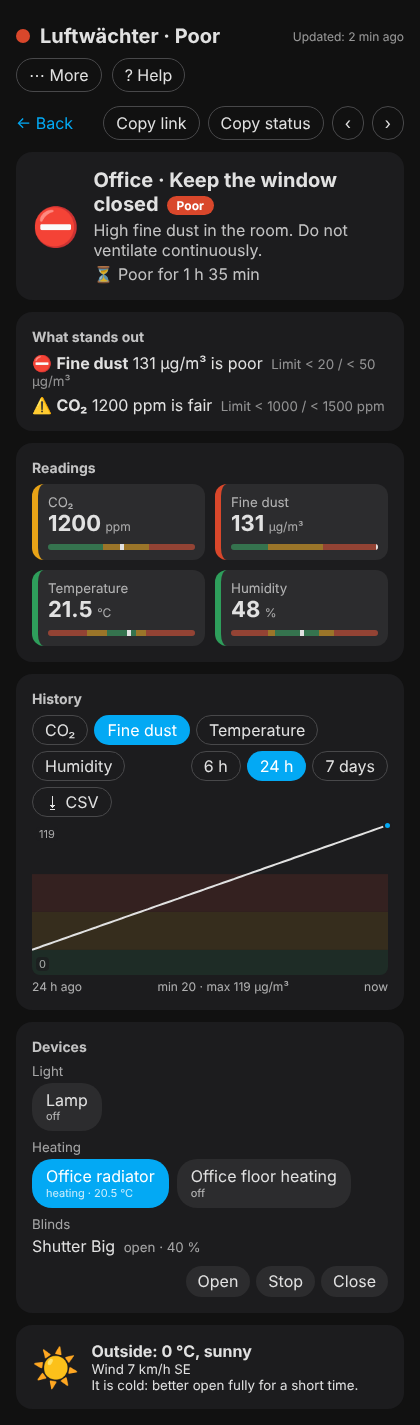
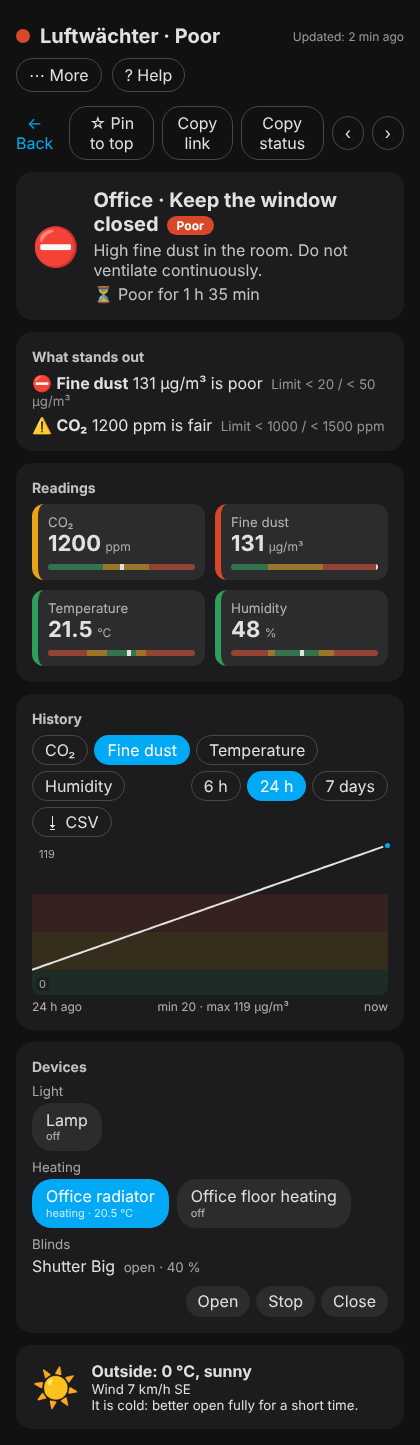
0.9.0: pin rooms, sort by CO2, repairs hint, German README, widget section
Claude-Session: https://claude.ai/code/session_01W38UNCWRvMYfcRr6jVyi8m

diff --git a/custom_components/luftwaechter/frontend/luftwaechter-panel.js b/custom_components/luftwaechter/frontend/luftwaechter-panel.js
@@ -11,7 +11,7 @@ const UI = {
     cover_open: "Auf", cover_stop: "Stopp", cover_close: "Zu", allgood: "Alle Werte im grünen Bereich.",
     isPoor: "ist schlecht", isFair: "ist mittel", tooHigh: "zu hoch", tooLow: "zu niedrig", limit: "Grenze",
     attention: "Jetzt tun", nothing: "Nichts zu tun, alles in Ordnung.", rooms_n: "{a} von {n} Räumen brauchen Aufmerksamkeit", stale: "Die Daten sind möglicherweise veraltet (letztes Update vor {n} min).",
-    size: "Textgröße", onbTitle: "So kommen Räume ins Panel", onb1: "Weise CO₂-, Feinstaub-, Temperatur- oder Luftfeuchte-Sensoren einem Bereich zu (Einstellungen → Bereiche).", onb2: "Der Raum erscheint automatisch, sobald ein Sensor Werte liefert.", onb3: "Optional: Gib einem Fenstersensor die Geräteklasse „Fenster“, dann bekommst du Lüftungsempfehlungen.", noHouse: "Die Integration Luftwächter wurde nicht gefunden. Einstellungen → Geräte & Dienste → Integration hinzufügen → Luftwächter.", legend: "Punkte: CO₂ · Feinstaub · Temperatur · Luftfeuchte", avgT: "Ø im Haus", ventStart: "Lüftungs-Timer starten ({n} min)", ventRun: "Lüften läuft", ventDone: "Zeit ist um: Fenster jetzt schließen", ventStop: "Abbrechen", fs: "Vollbild", fsExit: "Vollbild beenden", copyAll: "Hausstatus kopieren", trendUp: "Steigend", trendDown: "Fallend", onlyProblems: "Nur Probleme", rank: "CO₂ im Vergleich", rotate: "Räume automatisch durchschalten", csv: "CSV", shortcuts: "Tastatur: ← → Raum wechseln · Esc zurück · / suchen · S sortieren · O nur Probleme · V Listenansicht · M Menü · R durchschalten · F Vollbild · H Hilfe", search: "Raum suchen…", noMatch: "Kein Raum gefunden.", listView: "Listenansicht", tileView: "Kachelansicht", soundOn: "Signalton bei Ablauf: an", soundOff: "Signalton bei Ablauf: aus", copyLink: "Link kopieren", mold: "Schimmelgefahr", dew: "Taupunkt", more: "Mehr", refreshNow: "Jetzt aktualisieren", cbMode: "Farbenblind-Modus (Symbole)", sinceFor: "{l} seit {t}", copy: "Status kopieren", copied: "Kopiert", r6h: "6 h", r24h: "24 h", r7d: "7 Tage", a6h: "vor 6 h", a24h: "vor 24 h", a7d: "vor 7 Tagen", dayU: "Tg", hourU: "h",
+    size: "Textgröße", onbTitle: "So kommen Räume ins Panel", onb1: "Weise CO₂-, Feinstaub-, Temperatur- oder Luftfeuchte-Sensoren einem Bereich zu (Einstellungen → Bereiche).", onb2: "Der Raum erscheint automatisch, sobald ein Sensor Werte liefert.", onb3: "Optional: Gib einem Fenstersensor die Geräteklasse „Fenster“, dann bekommst du Lüftungsempfehlungen.", noHouse: "Die Integration Luftwächter wurde nicht gefunden. Einstellungen → Geräte & Dienste → Integration hinzufügen → Luftwächter.", legend: "Punkte: CO₂ · Feinstaub · Temperatur · Luftfeuchte", avgT: "Ø im Haus", ventStart: "Lüftungs-Timer starten ({n} min)", ventRun: "Lüften läuft", ventDone: "Zeit ist um: Fenster jetzt schließen", ventStop: "Abbrechen", fs: "Vollbild", fsExit: "Vollbild beenden", copyAll: "Hausstatus kopieren", trendUp: "Steigend", trendDown: "Fallend", onlyProblems: "Nur Probleme", rank: "CO₂ im Vergleich", rotate: "Räume automatisch durchschalten", csv: "CSV", shortcuts: "Tastatur: ← → Raum wechseln · Esc zurück · / suchen · S sortieren · P anheften · O nur Probleme · V Listenansicht · M Menü · R durchschalten · F Vollbild · H Hilfe", search: "Raum suchen…", noMatch: "Kein Raum gefunden.", listView: "Listenansicht", tileView: "Kachelansicht", soundOn: "Signalton bei Ablauf: an", soundOff: "Signalton bei Ablauf: aus", copyLink: "Link kopieren", mold: "Schimmelgefahr", dew: "Taupunkt", more: "Mehr", refreshNow: "Jetzt aktualisieren", cbMode: "Farbenblind-Modus (Symbole)", sinceFor: "{l} seit {t}", sortCo2: "Höchstes CO₂ zuerst", pin: "Oben anheften", unpin: "Nicht mehr anheften", pinned: "Angeheftet", copy: "Status kopieren", copied: "Kopiert", r6h: "6 h", r24h: "24 h", r7d: "7 Tage", a6h: "vor 6 h", a24h: "vor 24 h", a7d: "vor 7 Tagen", dayU: "Tg", hourU: "h",
     helpTitle: "Was bedeuten die Messwerte?", causes: "Mögliche Ursachen", todo: "Was hilft",
     hCo2: "CO₂ (Kohlendioxid) zeigt, wie verbraucht die Raumluft ist. Wir atmen es aus.",
     cCo2: "Viele Personen im Raum, Schlafen bei geschlossenem Fenster, kleine Räume, geschlossene Türen, Kerzen oder Gasflammen.",
@@ -36,7 +36,7 @@ const UI = {
     cover_open: "Open", cover_stop: "Stop", cover_close: "Close", allgood: "All readings are in the green.",
     isPoor: "is poor", isFair: "is fair", tooHigh: "too high", tooLow: "too low", limit: "Limit",
     attention: "Do now", nothing: "Nothing to do, all good.", rooms_n: "{a} of {n} rooms need attention", stale: "Data may be outdated (last update {n} min ago).",
-    size: "Text size", onbTitle: "How rooms get into the panel", onb1: "Assign CO₂, fine dust, temperature or humidity sensors to an area (Settings → Areas).", onb2: "The room appears automatically as soon as a sensor reports values.", onb3: "Optional: give a window sensor the device class \"window\" to get ventilation advice.", noHouse: "The Luftwächter integration was not found. Settings → Devices & services → Add integration → Luftwächter.", legend: "Dots: CO₂ · fine dust · temperature · humidity", avgT: "House average", ventStart: "Start ventilation timer ({n} min)", ventRun: "Ventilating", ventDone: "Time is up: close the window now", ventStop: "Cancel", fs: "Full screen", fsExit: "Exit full screen", copyAll: "Copy house status", trendUp: "Rising", trendDown: "Falling", onlyProblems: "Only problems", rank: "CO₂ compared", rotate: "Rotate through rooms automatically", csv: "CSV", shortcuts: "Keyboard: ← → switch room · Esc back · / search · S sort · O only problems · V list view · M menu · R rotate · F full screen · H help", search: "Find a room…", noMatch: "No room found.", listView: "List view", tileView: "Tile view", soundOn: "Sound when time is up: on", soundOff: "Sound when time is up: off", copyLink: "Copy link", mold: "Mold risk", dew: "Dew point", more: "More", refreshNow: "Refresh now", cbMode: "Color-blind mode (symbols)", sinceFor: "{l} for {t}", copy: "Copy status", copied: "Copied", r6h: "6 h", r24h: "24 h", r7d: "7 days", a6h: "6 h ago", a24h: "24 h ago", a7d: "7 days ago", dayU: "d", hourU: "h",
+    size: "Text size", onbTitle: "How rooms get into the panel", onb1: "Assign CO₂, fine dust, temperature or humidity sensors to an area (Settings → Areas).", onb2: "The room appears automatically as soon as a sensor reports values.", onb3: "Optional: give a window sensor the device class \"window\" to get ventilation advice.", noHouse: "The Luftwächter integration was not found. Settings → Devices & services → Add integration → Luftwächter.", legend: "Dots: CO₂ · fine dust · temperature · humidity", avgT: "House average", ventStart: "Start ventilation timer ({n} min)", ventRun: "Ventilating", ventDone: "Time is up: close the window now", ventStop: "Cancel", fs: "Full screen", fsExit: "Exit full screen", copyAll: "Copy house status", trendUp: "Rising", trendDown: "Falling", onlyProblems: "Only problems", rank: "CO₂ compared", rotate: "Rotate through rooms automatically", csv: "CSV", shortcuts: "Keyboard: ← → switch room · Esc back · / search · S sort · P pin · O only problems · V list view · M menu · R rotate · F full screen · H help", search: "Find a room…", noMatch: "No room found.", listView: "List view", tileView: "Tile view", soundOn: "Sound when time is up: on", soundOff: "Sound when time is up: off", copyLink: "Copy link", mold: "Mold risk", dew: "Dew point", more: "More", refreshNow: "Refresh now", cbMode: "Color-blind mode (symbols)", sinceFor: "{l} for {t}", sortCo2: "Highest CO₂ first", pin: "Pin to top", unpin: "Unpin", pinned: "Pinned", copy: "Copy status", copied: "Copied", r6h: "6 h", r24h: "24 h", r7d: "7 days", a6h: "6 h ago", a24h: "24 h ago", a7d: "7 days ago", dayU: "d", hourU: "h",
     helpTitle: "What do the readings mean?", causes: "Possible causes", todo: "What helps",
     hCo2: "CO₂ (carbon dioxide) shows how stale the room air is. We breathe it out.",
     cCo2: "Many people in the room, sleeping with the window closed, small rooms, closed doors, candles or gas flames.",
@@ -83,7 +83,7 @@ class LuftwaechterPanel extends HTMLElement {
     this._range = store.get("lw_range") || "24h";
     this._size = parseInt(store.get("lw_size") || "1", 10);
     this._only = store.get("lw_only") === "1";
-    this._list = store.get("lw_list") === "1"; this._snd = store.get("lw_snd") === "1"; this._q = ""; this._cb = store.get("lw_cb") === "1"; this._menu = false;
+    this._list = store.get("lw_list") === "1"; this._snd = store.get("lw_snd") === "1"; this._q = ""; this._cb = store.get("lw_cb") === "1"; try { this._pins = JSON.parse(store.get("lw_pins") || "[]"); } catch (e) { this._pins = []; } if (!Array.isArray(this._pins)) this._pins = []; this._menu = false;
     this._help = false;
     this._hist = {};
     try { const m = /[#&]room=([^&]+)/.exec(location.hash); if (m) this._sel = decodeURIComponent(m[1]); } catch (e) { /* ignore */ }
@@ -122,11 +122,14 @@ class LuftwaechterPanel extends HTMLElement {
   _menuItems(rooms, sel, t) {
     const b = (id, icon, label, pressed) => `<button class="mi" id="${id}"${pressed === undefined ? "" : ` aria-pressed="${pressed}"`}><span aria-hidden="true">${icon}</span> ${esc(label)}</button>`;
     const many = rooms.length > 1, ov = !sel, fs = document.fullscreenElement;
-    return [ov && many ? b("only", "⚠", t.onlyProblems, this._only) : "", ov && many ? b("sort", "↕", this._sort === "worst" ? t.sortWorst : t.sortName) : "",
+    return [ov && many ? b("only", "⚠", t.onlyProblems, this._only) : "", ov && many ? b("sort", "↕", this._sortLabel(t)) : "",
       ov && many ? b("dens", this._list ? "▦" : "☰", this._list ? t.tileView : t.listView) : "", many ? b("rot", "⟳", t.rotate, this._rot) : "",
       ov && rooms.length ? b("copyall", "⧉", t.copyAll) : "", document.fullscreenEnabled ? b("fs", fs ? "🗗" : "⛶", fs ? t.fsExit : t.fs) : "",
       b("size", "Aa", t.size), b("cb", "◐", t.cbMode, this._cb), b("refresh", "↻", t.refreshNow)].join("");
   }
+  _nextSort() { this._sort = { worst: "name", name: "co2" }[this._sort] || "worst"; store.set("lw_sort", this._sort); this._render(); }
+  _pin(key) { const i = this._pins.indexOf(key); if (i < 0) this._pins.push(key); else this._pins.splice(i, 1); store.set("lw_pins", JSON.stringify(this._pins)); this._render(); }
+  _sortLabel(t) { return this._sort === "worst" ? t.sortWorst : this._sort === "co2" ? t.sortCo2 : t.sortName; }
   _sym(i) { return ["✓", "!", "✕"][i] || "–"; }
   _dur(min) { return min < 60 ? `${min} min` : `${Math.floor(min / 60)} h ${min % 60} min`; }
   _spark(r) {
@@ -190,7 +193,12 @@ class LuftwaechterPanel extends HTMLElement {
     if (this._sort === "worst") {
       const rank = (r) => ({ poor: 0, fair: 1, good: 2 }[r.level] ?? 3);
       rooms.sort((a, b) => rank(a) - rank(b) || a.name.localeCompare(b.name));
+    } else if (this._sort === "co2") {
+      const co2 = (r) => { const v = r.values.find((x) => x.key === "co2"); return v && v.raw != null ? v.raw : -1; };
+      rooms.sort((a, b) => co2(b) - co2(a) || a.name.localeCompare(b.name));
     } else rooms.sort((a, b) => a.name.localeCompare(b.name));
+    const pin = (r) => (this._pins.includes(r.key) ? 0 : 1);
+    rooms.sort((a, b) => pin(a) - pin(b));
     return rooms;
   }
   _select(key) { this._sel = key; store.set("lw_room", key || ""); try { history.replaceState(null, "", key ? "#room=" + encodeURIComponent(key) : location.pathname + location.search); } catch (e) { /* ignore */ } this._render(); }
@@ -205,7 +213,8 @@ class LuftwaechterPanel extends HTMLElement {
     if (k === "h") { if (this._help) this._closeHelp(); else { this._help = true; this._render(); this.shadowRoot.querySelector("#hclose")?.focus(); } return; }
     if (this._help && ev.key === "Tab") { ev.preventDefault(); this.shadowRoot.querySelector("#hclose")?.focus(); return; }
     if (!this._help) {
-      if (k === "s" && !this._sel) { this._sort = this._sort === "worst" ? "name" : "worst"; store.set("lw_sort", this._sort); this._render(); return; }
+      if (k === "s" && !this._sel) { this._nextSort(); return; }
+      if (k === "p" && this._sel) { this._pin(this._sel); return; }
       if (k === "o" && !this._sel) { this._only = !this._only; store.set("lw_only", this._only ? "1" : "0"); this._render(); return; }
       if (k === "/" && !this._sel) { const qi = this.shadowRoot.querySelector("#q"); if (qi) { ev.preventDefault(); qi.focus(); return; } }
       if (k === "m") { this._toggleMenu(); return; }
@@ -419,12 +428,12 @@ header{position:sticky;top:0;z-index:5;background:var(--primary-background-color
         const bad = r.values.filter((v) => v.level >= 1 && v.raw != null).sort((x, y) => y.level - x.level)[0];
         const co2 = r.values.find((v) => v.key === "co2");
         return `<button class="tile" data-name="${esc(r.name.toLowerCase())}" data-room="${esc(r.key)}" style="border-color:${this._col(r.level)}" aria-label="${esc(r.name)}: ${esc(t[r.level] || t.unknown)}">
-          <b>${esc(r.name)}</b><span class="pill" title="${r.since >= 2 ? esc(t.sinceFor.replace("{l}", t[r.level] || t.unknown).replace("{t}", this._dur(r.since))) : ""}" style="background:${this._col(r.level)}">${esc(t[r.level] || t.unknown)}</span><small>${LVLICON[["good", "fair", "poor"].indexOf(r.level)] || "❔"} ${esc(r.headline)}</small>
+          <b>${this._pins.includes(r.key) ? "★ " : ""}${esc(r.name)}</b><span class="pill" title="${r.since >= 2 ? esc(t.sinceFor.replace("{l}", t[r.level] || t.unknown).replace("{t}", this._dur(r.since))) : ""}" style="background:${this._col(r.level)}">${esc(t[r.level] || t.unknown)}</span><small>${LVLICON[["good", "fair", "poor"].indexOf(r.level)] || "❔"} ${esc(r.headline)}</small>
           ${bad ? `<small style="color:${COL[bad.level]}">${esc(t[bad.key])}: ${esc(bad.value)} ${esc(bad.unit)}</small>` : ""}<small class="mini">${r.values.filter((v) => v.raw != null).map((v) => esc(v.value) + "\u00a0" + esc(v.unit)).join(" · ")}</small>${r.trend === "up" || r.trend === "down" ? `<small>${r.trend === "up" ? "↗" : "↘"} ${esc(t[r.trend === "up" ? "trendUp" : "trendDown"])}</small>` : ""}${r.mold ? `<small class="mold">💧 ${esc(t.mold)}</small>` : ""}${this._spark(r)}<div class="dots${this._cb ? " cbd" : ""}" aria-hidden="true">${r.values.map((v) => `<i title="${esc(t[v.key])}: ${esc(v.value)} ${esc(v.unit)}" style="background:${this._lcol(v.level)}">${this._cb ? this._sym(v.level) : ""}</i>`).join("")}</div></button>`;
       }).join("")}</div><p class="muted legend">${esc(t.legend)}</p>${this._rank(rooms, t)}`;
     } else {
       const li = rooms.findIndex((r) => r.key === sel.key);
-      body = `<div class="nav"><button class="back" id="back">← ${esc(t.back)}</button><span class="sp"></span><button class="tool" id="link">${esc(t.copyLink)}</button><button class="tool" id="copy">${esc(t.copy)}</button><button class="tool" id="prev" aria-label="${esc(t.prev)}">‹</button><button class="tool" id="next" aria-label="${esc(t.next)}">›</button></div>
+      body = `<div class="nav"><button class="back" id="back">← ${esc(t.back)}</button><span class="sp"></span><button class="tool" id="pin" aria-pressed="${this._pins.includes(sel.key)}" title="${esc(this._pins.includes(sel.key) ? t.unpin : t.pin)}">${this._pins.includes(sel.key) ? "★ " + esc(t.pinned) : "☆ " + esc(t.pin)}</button><button class="tool" id="link">${esc(t.copyLink)}</button><button class="tool" id="copy">${esc(t.copy)}</button><button class="tool" id="prev" aria-label="${esc(t.prev)}">‹</button><button class="tool" id="next" aria-label="${esc(t.next)}">›</button></div>
       <div class="card"><div class="head"><span class="big">${["keep_closed", "unknown"].includes(sel.action) && LVLICON[["good", "fair", "poor"].indexOf(sel.level)] ? LVLICON[["good", "fair", "poor"].indexOf(sel.level)] : ICON[sel.action] || ""}</span><div><h2>${esc(sel.name)} · ${esc(sel.headline)}<span class="badge" style="background:${this._col(sel.level)}">${esc(t[sel.level] || t.unknown)}</span></h2><p>${esc(sel.detail)}</p>${sel.trend === "up" || sel.trend === "down" ? `<p class="muted">${sel.trend === "up" ? "↗" : "↘"} ${esc(t[sel.trend === "up" ? "trendUp" : "trendDown"])}</p>` : ""}${sel.since >= 2 ? `<p class="muted">⏳ ${esc(t.sinceFor.replace("{l}", t[sel.level] || t.unknown).replace("{t}", this._dur(sel.since)))}</p>` : ""}</div></div>${sel.warn ? `<div class="warn">${esc(sel.warn)}</div>` : ""}</div>${this._ventCard(sel, t)}
       <div class="cols"><div><div class="card"><h3>${esc(t.problems)}</h3>${this._problems(sel, t)}</div>
         <div class="card"><h3>${esc(t.values)}</h3><div class="vals">${sel.values.map((v) => `<div class="val" style="border-color:${this._lcol(v.level)}" title="${esc(t.limits)}: ${esc(this._lim(v.key))}"><small>${this._cb ? `<span class="sym">${this._sym(v.level)}</span>` : ""}${esc(t[v.key])}</small><b>${esc(v.value)}</b> <i>${esc(v.unit)}</i>${this._gauge(v)}</div>`).join("")}</div>${sel.dew ? `<p class="muted" style="margin-top:8px">${esc(t.dew)}: ${esc(sel.dew)} °C${sel.mold ? ` · <span class="mold">💧 ${esc(t.mold)}</span>` : ""}</p>` : ""}</div></div>
@@ -441,7 +450,8 @@ header{position:sticky;top:0;z-index:5;background:var(--primary-background-color
     q("#back")?.addEventListener("click", () => this._select(null));
     const step = (d) => { const rs = this._rooms(); const i = rs.findIndex((r) => r.key === this._sel); this._select(rs[(i + d + rs.length) % rs.length].key); };
     q("#prev")?.addEventListener("click", () => step(-1)); q("#next")?.addEventListener("click", () => step(1));
-    q("#sort")?.addEventListener("click", () => { this._sort = this._sort === "worst" ? "name" : "worst"; store.set("lw_sort", this._sort); this._render(); });
+    q("#sort")?.addEventListener("click", () => this._nextSort());
+    q("#pin")?.addEventListener("click", () => this._pin(sel.key));
     q("#only")?.addEventListener("click", () => { this._only = !this._only; store.set("lw_only", this._only ? "1" : "0"); this._render(); });
     q("#size")?.addEventListener("click", () => { this._size = (this._size + 1) % 3; store.set("lw_size", String(this._size)); this._render(); });
     q("#copy")?.addEventListener("click", async (ev) => { const r = sel; const txt = `${r.name}: ${r.headline}. ${r.detail}\n` + r.values.map((v) => `${t[v.key]} ${v.value} ${v.unit}`).join(", "); try { await navigator.clipboard.writeText(txt); ev.target.textContent = t.copied + " ✓"; } catch (e) { ev.target.textContent = "✗"; } });

diff --git a/tests/panel.spec.py b/tests/panel.spec.py
@@ -55,7 +55,8 @@ with sync_playwright() as p:
     assert "may be outdated" in pg.evaluate("el.shadowRoot.querySelector('#stale').textContent") and not pg.evaluate("el.shadowRoot.querySelector('#stale').hidden")
     pg.evaluate("el._hass.states['sensor.luftwaechter_house'].attributes.updated = Math.floor(Date.now()/1000) - 120; el._sig=''; el.hass = el._hass")
     clk("#sort"); assert pg.evaluate("[...el.shadowRoot.querySelectorAll('.tile b')].map(x=>x.textContent)") == ["Bedroom", "Office"]
-    clk("#sort"); clk(".tile")
+    clk("#sort"); assert pg.evaluate("el._sort") == "co2" and pg.evaluate("[...el.shadowRoot.querySelectorAll('.tile b')].map(x=>x.textContent)") == ["Office", "Bedroom"]
+    clk("#sort"); assert pg.evaluate("el._sort") == "worst"; clk(".tile")
     pg.wait_for_function("el.shadowRoot.querySelector('.chartwrap svg path') !== null")
     t = txt()
     assert "Office" in t and "poor" in t.lower() and "Fine dust 131 µg/m³ is poor" in t and "What stands out" in t
@@ -109,7 +110,7 @@ with sync_playwright() as p:
     pg.keyboard.press("o"); assert pg.evaluate("[...el.shadowRoot.querySelectorAll('.tile b')].map(x=>x.textContent)") == ["Office"]
     pg.keyboard.press("o"); assert pg.evaluate("el.shadowRoot.querySelectorAll('.tile').length") == 2
     pg.keyboard.press("h"); assert "Possible causes" in txt() and "Keyboard:" in txt() and "< 1500 / < 2000 ppm" in txt(); pg.keyboard.press("h"); assert "Possible causes" not in txt()
-    pg.keyboard.press("s"); assert pg.evaluate("el._sort") == "name"; pg.keyboard.press("s"); assert pg.evaluate("el._sort") == "worst"
+    pg.keyboard.press("s"); assert pg.evaluate("el._sort") == "name"; pg.keyboard.press("s"); pg.keyboard.press("s"); assert pg.evaluate("el._sort") == "worst"
     pg.evaluate("() => { const h = el._hass; const e = h.states['sensor.luftwaechter_house']; e.attributes = window.orig; e.last_updated = 't8'; el.hass = Object.assign({}, h); }")
     # 0.7.0: mold hint, search with many rooms, list view, copy link, sound toggle, configurable stale limit
     pg.evaluate("""() => { const h = el._hass, e = h.states['sensor.luftwaechter_house']; const a = JSON.parse(JSON.stringify(window.orig));
@@ -148,6 +149,11 @@ with sync_playwright() as p:
     clk("#cb"); assert pg.evaluate("el._cb") is False and pg.evaluate("!el.shadowRoot.querySelector('.dots.cbd')")
     pg.evaluate("el._select('o')"); assert "Poor for 1 h 35 min" in txt()
     pg.evaluate("el._select(null)")
+    # 0.9.0: pin favourite rooms (stay on top in every sort order), CO2 sort label
+    pg.evaluate("el._select('b')"); clk("#pin"); assert pg.evaluate("el._pins") == ["b"] and "Pinned" in txt()
+    pg.evaluate("el._select(null)"); assert pg.evaluate("[...el.shadowRoot.querySelectorAll('.tile b')].map(x=>x.textContent)") == ["★ Bedroom", "Office"]
+    pg.evaluate("el._select('b')"); pg.keyboard.press("p"); assert pg.evaluate("el._pins") == []
+    pg.evaluate("el._select(null)"); assert pg.evaluate("[...el.shadowRoot.querySelectorAll('.tile b')].map(x=>x.textContent)") == ["Office", "Bedroom"]
     # German UI screenshot for the README: server text in English, this viewer is German
     pg.evaluate("""() => { const h = el._hass, e = h.states['sensor.luftwaechter_house']; const a = JSON.parse(JSON.stringify(window.orig));
       const m = { 'Keep the window closed': 'Fenster zu lassen', 'All good': 'Alles in Ordnung', 'High fine dust in the room. Do not ventilate continuously.': 'Hoher Feinstaub im Raum. Nicht dauerhaft lüften.', 'The window can stay closed.': 'Das Fenster kann geschlossen bleiben.' };

diff --git a/custom_components/luftwaechter/coordinator.py b/custom_components/luftwaechter/coordinator.py
@@ -10,6 +10,7 @@ from homeassistant.core import HomeAssistant
 from homeassistant.helpers import area_registry as ar
 from homeassistant.helpers import device_registry as dr
 from homeassistant.helpers import entity_registry as er
+from homeassistant.helpers import issue_registry as ir
 from homeassistant.helpers import label_registry as lr
 from homeassistant.helpers.update_coordinator import DataUpdateCoordinator
 from homeassistant.util import dt as dt_util
@@ -25,7 +26,9 @@ from .const import (
     CONF_WEATHER,
     DEFAULT_STALE,
     DOMAIN,
+    EMPTY_BEFORE_ISSUE,
     EVENT_LEVEL_CHANGED,
+    ISSUE_NO_ROOMS,
     LABEL,
     SCAN_SECONDS,
 )
@@ -44,6 +47,7 @@ class LuftwaechterCoordinator(DataUpdateCoordinator[dict]):
         self._samples: dict[str, deque] = {}
         self._levels: dict[str, str] | None = None
         self._since: dict[str, tuple[str, float]] = {}
+        self._empty = 0
 
     @property
     def weather_entity(self) -> str | None:
@@ -165,6 +169,16 @@ class LuftwaechterCoordinator(DataUpdateCoordinator[dict]):
                     )
         self._levels = levels
 
+    def _check_rooms(self, model: dict) -> None:
+        """Raise a repair issue when no room has been found for a while (about 5 minutes), clear it once rooms appear."""
+        self._empty = 0 if model["rooms"] else self._empty + 1
+        if self._empty >= EMPTY_BEFORE_ISSUE:
+            ir.async_create_issue(
+                self.hass, DOMAIN, ISSUE_NO_ROOMS, is_fixable=False, severity=ir.IssueSeverity.WARNING, translation_key=ISSUE_NO_ROOMS
+            )
+        elif model["rooms"]:
+            ir.async_delete_issue(self.hass, DOMAIN, ISSUE_NO_ROOMS)
+
     async def _async_update_data(self) -> dict:
         self.lang = (self.hass.config.language or "en").split("-")[0]
         areas, labelled = self._collect_areas()
@@ -173,5 +187,6 @@ class LuftwaechterCoordinator(DataUpdateCoordinator[dict]):
         weather, rain_at = await self._weather()
         model = engine.build_model(areas, labelled, weather, rain_at, self.lang, dt_util.utcnow().timestamp(), self._limits())
         self._annotate(model)
+        self._check_rooms(model)
         model["stale_min"] = int(self.entry.options.get(CONF_STALE, DEFAULT_STALE) or DEFAULT_STALE)
         return model

diff --git a/tests/test_integration.py b/tests/test_integration.py
@@ -139,3 +139,26 @@ async def test_room_since_and_spark(hass, enable_custom_integrations):
 async def test_stale_minutes_option(hass, enable_custom_integrations):
     await _setup(hass, options={"stale_minutes": 30})
     assert hass.states.get("sensor.luftwachter_house").attributes["stale_min"] == 30
+
+
+async def test_no_rooms_repair_issue(hass, enable_custom_integrations):
+    from homeassistant.helpers import issue_registry as ir
+
+    entry = MockConfigEntry(domain=DOMAIN, data={})
+    entry.add_to_hass(hass)
+    assert await hass.config_entries.async_setup(entry.entry_id)
+    await hass.async_block_till_done()
+    coord = hass.data[DOMAIN][entry.entry_id]
+    reg = ir.async_get(hass)
+    assert reg.async_get_issue(DOMAIN, "no_rooms") is None  # not right away, sensors may still be loading
+    for _ in range(5):
+        await coord.async_refresh()
+    assert reg.async_get_issue(DOMAIN, "no_rooms") is not None
+    areas = ar.async_get(hass)
+    ents = er.async_get(hass)
+    office = areas.async_create("Office")
+    e = ents.async_get_or_create("sensor", "test", "co2", original_device_class="carbon_dioxide")
+    ents.async_update_entity(e.entity_id, area_id=office.id)
+    hass.states.async_set(e.entity_id, "700", {"device_class": "carbon_dioxide"})
+    await coord.async_refresh()
+    assert reg.async_get_issue(DOMAIN, "no_rooms") is None

diff --git a/custom_components/luftwaechter/__init__.py b/custom_components/luftwaechter/__init__.py
@@ -15,7 +15,7 @@ from .coordinator import LuftwaechterCoordinator
 
 PLATFORMS = ["sensor", "binary_sensor"]
 CONFIG_SCHEMA = cv.config_entry_only_config_schema(DOMAIN)
-_VERSION = "0.8.0"
+_VERSION = "0.9.0"
 
 
 async def async_setup(hass: HomeAssistant, config: ConfigType) -> bool:

diff --git a/custom_components/luftwaechter/const.py b/custom_components/luftwaechter/const.py
@@ -12,4 +12,6 @@ CONF_PM_FAIR = "pm_fair"
 CONF_EXCLUDE = "excluded_areas"
 CONF_STALE = "stale_minutes"
 DEFAULT_STALE = 10
+ISSUE_NO_ROOMS = "no_rooms"
+EMPTY_BEFORE_ISSUE = 5
 EVENT_LEVEL_CHANGED = "luftwaechter_level_changed"

diff --git a/README.md b/README.md
@@ -11,6 +11,8 @@
 [![Stars](https://img.shields.io/github/stars/DanStasiak/luftwaechter-ha?style=flat)](https://github.com/DanStasiak/luftwaechter-ha/stargazers)
 [![Issues](https://img.shields.io/github/issues/DanStasiak/luftwaechter-ha)](https://github.com/DanStasiak/luftwaechter-ha/issues)
 
+🇩🇪 [Deutsche Version](README.de.md)
+
 Room air quality, ventilation advice and window hints for Home Assistant, with a sidebar panel for the whole household.
 Companion to the [Luftwächter Windows widget](https://github.com/DanStasiak/airguard-widget). German and English, no cloud, no extra requests.
 
@@ -18,7 +20,7 @@ Companion to the [Luftwächter Windows widget](https://github.com/DanStasiak/air
 
 <p align="center"><img src="https://raw.githubusercontent.com/DanStasiak/luftwaechter-ha/main/docs/demo.gif" width="640" alt="Demo: overview, room view, ventilation timer, German interface"></p>
 
-**Contents:** [Features](#features) · [Install](#install-marketplace) · [Update](#update) · [How it works](#how-it-works) · [Limits](#limits) · [Entities](#entities) · [Settings](#settings) · [Events](#events-for-automations) · [Blueprint](#blueprint) · [Wall tablet tips](#wall-tablet-tips) · [FAQ](#faq) · [Roadmap](#roadmap) · [Troubleshooting](#troubleshooting) · [Privacy](#privacy)
+**Contents:** [Features](#features) · [Install](#install-marketplace) · [Update](#update) · [How it works](#how-it-works) · [Limits](#limits) · [Entities](#entities) · [Settings](#settings) · [Events](#events-for-automations) · [Blueprint](#blueprint) · [Windows widget](#windows-widget) · [Wall tablet tips](#wall-tablet-tips) · [FAQ](#faq) · [Roadmap](#roadmap) · [Troubleshooting](#troubleshooting) · [Privacy](#privacy)
 
 ## Features
 - **Do-now overview**: which rooms need attention, worst first, with a coloured dot per reading on every tile.
@@ -44,6 +46,9 @@ Companion to the [Luftwächter Windows widget](https://github.com/DanStasiak/air
 - **Sparklines and time in level**: the last hour on every tile, and "Poor for 1 h 35 min" in the room view.
 - **Color-blind mode** with symbols next to the colours, and **Refresh now** from the panel.
 - **Automation blueprint**: one click to get a "room became poor" notification, no YAML needed.
+- **Pin favourite rooms** (key `P`) and sort by highest CO₂.
+- **Repairs hint** in Home Assistant when no room is found, with what to do.
+- **German README** ([README.de.md](README.de.md)).
 - **Timer sound** (optional) and a **copy link** button for the deep link to a room.
 - **Entities for automations**: one sensor per room, a house sensor and an "Attention" binary sensor.
 
@@ -154,7 +159,7 @@ Prefer clicks to YAML? Import the blueprint and pick the level, an optional room
 - **Download diagnostics** (device page, three dots) gives a compact, anonymous report for bug reports: levels, readings, sources and device ids, no names of people or accounts.
 
 ## Wall tablet tips
-- Keyboard: ← → switch room, Esc back, **/** search, **S** sort, **O** only problems, **V** list view, **M** menu, **R** rotate rooms, **F** full screen, **H** help.
+- Keyboard: ← → switch room, Esc back, **/** search, **S** sort (worst, name, highest CO₂), **P** pin a room, **O** only problems, **V** list view, **M** menu, **R** rotate rooms, **F** full screen, **H** help.
 - **Rotate** (⟳ button or **R**) steps through the rooms every 12 seconds; a tap stops it. In full screen the panel asks the tablet to keep the screen on.
 - The header stays visible while you scroll.
 - Open the panel once, choose the **Aa** size, press the full-screen button.
@@ -170,6 +175,8 @@ Prefer clicks to YAML? Import the blueprint and pick the level, an optional room
 
 **Can I use the panel if I cannot tell red from green?** Yes: turn on **Color-blind mode** in the **More** menu. Every reading then also shows a symbol (✓ fine, ! fair, ✕ poor).
 
+**A room is missing. Why?** Rooms come from your areas: a room needs at least one CO₂, fine dust, temperature or humidity sensor assigned to an area. If no room is found for about 5 minutes, Home Assistant shows a hint under **Settings → Repairs**.
+
 **Do I need a window sensor?** No. With one (device class "window") you get "open / close the window" advice; without it you get ventilation advice only.
 
 **Does it send data anywhere?** No, see Privacy.
@@ -184,6 +191,15 @@ Prefer clicks to YAML? Import the blueprint and pick the level, an optional room
 - **Can't find HACS**: in Home Assistant 2026.11 and newer it is the Marketplace under Settings.
 - **Too many devices listed**: give only the wanted ones the label `airguard`.
 - **History chart is empty**: the sensors need recorder history; recorder-excluded sensors have none.
+
+## Windows widget
+Luftwächter also exists as a small desktop widget for Windows, [airguard-widget](https://github.com/DanStasiak/airguard-widget). It connects straight to your Home Assistant, shows the same rooms and advice on the desktop and in the tray, and has a simple view for family members who do not use Home Assistant. You do not need this integration for the widget, and the widget is not needed for this integration. Use both and the widget's right-click menu opens this panel directly (**Open Luftwächter panel in Home Assistant**).
+
+| | This integration | Windows widget |
+|---|---|---|
+| Runs in | Home Assistant, in the browser or app | Windows desktop and tray |
+| Best for | Wall tablets, phones, automations | A PC where someone works all day |
+| Needs | Home Assistant 2025.10+ | Windows 10 / 11, a long-lived access token |
 
 ## Roadmap
 Ideas, not promises: more languages (translations welcome), more sensor types, limits per room, a Lovelace card. Tell me what you need in an [issue](https://github.com/DanStasiak/luftwaechter-ha/issues).

diff --git a/README.de.md b/README.de.md
@@ -1,0 +1,63 @@
+<p align="center"><img src="https://raw.githubusercontent.com/DanStasiak/luftwaechter-ha/main/custom_components/luftwaechter/brand/icon@2x.png" width="120" alt="Luftwächter"></p>
+
+# Luftwächter für Home Assistant
+
+[![Validate](https://github.com/DanStasiak/luftwaechter-ha/actions/workflows/validate.yml/badge.svg)](https://github.com/DanStasiak/luftwaechter-ha/actions/workflows/validate.yml)
+[![Release](https://img.shields.io/github/v/release/DanStasiak/luftwaechter-ha)](https://github.com/DanStasiak/luftwaechter-ha/releases)
+[![Lizenz: MIT](https://img.shields.io/github/license/DanStasiak/luftwaechter-ha)](LICENSE)
+
+Luftqualität pro Raum, Lüftungshinweise und Fensterempfehlungen für Home Assistant, mit einem Seitenleisten-Panel für den ganzen Haushalt. Ergänzung zum [Luftwächter-Widget für Windows](https://github.com/DanStasiak/airguard-widget). Deutsch und Englisch, keine Cloud, keine zusätzlichen Zugänge.  
+🇬🇧 [English version](README.md)
+
+<p align="center"><img src="https://raw.githubusercontent.com/DanStasiak/luftwaechter-ha/main/docs/overview_de.png" width="640" alt="Übersicht auf Deutsch"></p>
+
+## Das kann es
+- **„Jetzt tun“-Übersicht**: welche Räume Aufmerksamkeit brauchen, der schlechteste zuerst, mit Verlaufslinie der letzten Stunde.
+- **Raumansicht**: Status, „Das fällt auf“ mit Grenzwerten, Skalen, Verlauf über 6 Stunden, 24 Stunden oder 7 Tage, Taupunkt und Schimmelwarnung.
+- **Lüftungshinweis**: Fenster öffnen, schließen oder offen lassen, wie lange, bei Sturm warten, Regenhinweis aus deiner Wettervorhersage.
+- **Lüftungs-Timer** mit Signalton und „Fenster jetzt schließen“.
+- **Geräte pro Raum**: Lichter, Heizung, Rollos mit Live-Status.
+- **Für gemeinsame Bildschirme**: Textgröße, Vollbild, Durchschalt-Modus, Raumsuche, Listenansicht, angeheftete Lieblingsräume, Farbenblind-Modus.
+- **Für deine Automationen**: ein Sensor pro Raum, ein Haus-Sensor, ein „Aufmerksamkeit“-Binärsensor, das Ereignis `luftwaechter_level_changed` und ein Blueprint.
+- **Jeder in seiner Sprache**: das Panel folgt der Sprache im Profil des jeweiligen Benutzers.
+
+## Installation (Marketplace)
+Home Assistant 2026.11 und neuer hat den **Marketplace** eingebaut (Einstellungen → Marketplace); er hat HACS abgelöst. Auf älteren Versionen: HACS → ⋮ → **Benutzerdefinierte Repositories** (Typ *Integration*).
+1. **Einstellungen → Marketplace → Über Link hinzufügen**, dort `https://github.com/DanStasiak/luftwaechter-ha` einfügen. Beim ersten Mal bestätigst du den Risikohinweis; für eigene Projekte braucht es eine GitHub-Verbindung (Home Assistant zeigt einen Code, den du auf GitHub eingibst, ein Passwort wird nicht weitergegeben).
+2. **Luftwächter** im Marketplace öffnen, **Herunterladen**, Home Assistant neu starten.
+3. Einstellungen → Geräte & Dienste → **Integration hinzufügen** → *Luftwächter*. Optional eine Wetter-Entität wählen.
+4. In der Seitenleiste **Luftwächter** öffnen. Sichtbar für alle Benutzer im Haushalt.
+
+**Manuell:** `luftwaechter.zip` von der [aktuellen Version](https://github.com/DanStasiak/luftwaechter-ha/releases/latest) laden, nach `config/custom_components/luftwaechter/` entpacken, Home Assistant neu starten.
+
+Voraussetzung: Home Assistant 2025.10 oder neuer.
+
+## So kommen Räume ins Panel
+Weise CO₂-, Feinstaub-, Temperatur- oder Feuchte-Sensoren einem **Bereich** zu (Einstellungen → Bereiche). Der Raum erscheint von selbst, sobald ein Sensor Werte meldet. Ein Fenstersensor mit der Geräteklasse „window“ liefert zusätzlich „Fenster öffnen / schließen“. Findet Luftwächter länger als etwa 5 Minuten keinen Raum, zeigt Home Assistant unter **Einstellungen → Reparaturen** einen Hinweis.
+
+## Einstellungen
+**Einstellungen → Geräte & Dienste → Luftwächter → Konfigurieren**: Wetter-Entität, Bereiche ausblenden, Grenzwerte für CO₂ und Feinstaub (Standard 1000 / 1500 ppm und 20 / 50 µg/m³) und nach wie vielen Minuten ohne Daten das Panel warnt (Standard 10).
+
+## Entitäten
+| Entität | Zustand | Attribute |
+|---|---|---|
+| `sensor.luftwachter_<raum>` | good / fair / poor | action, headline, detail, window, trend, since, mold, dew, values, devices |
+| `sensor.luftwachter_house` | schlechtester Wert | rooms, outside, limits, attention, attention_rooms, worst_room |
+| `binary_sensor.luftwachter_attention` | an, solange ein Raum schlecht ist oder Lüften/Warten rät | count, rooms, worst_room |
+
+Die Entity-IDs hängen von deiner Installation ab. Ereignis und Blueprint sind in der [englischen Beschreibung](README.md#events-for-automations) erklärt; der Blueprint lässt sich mit einem Klick importieren:
+
+[![Blueprint importieren](https://my.home-assistant.io/badges/blueprint_import.svg)](https://my.home-assistant.io/redirect/blueprint_import/?blueprint_url=https%3A%2F%2Fgithub.com%2FDanStasiak%2Fluftwaechter-ha%2Fblob%2Fmain%2Fblueprints%2Fautomation%2Fluftwaechter%2Flevel_changed.yaml)
+
+## Tastatur
+← → Raum wechseln · Esc zurück · `/` suchen · `S` sortieren (schlechtester, Name, CO₂) · `P` Raum anheften · `O` nur Probleme · `V` Listenansicht · `M` Menü · `R` durchschalten · `F` Vollbild · `H` Hilfe
+
+## Fehlersuche
+- **Panel zeigt noch alte Texte nach dem Update**: Browser-Seite hart neu laden (Strg + F5).
+- **Kein Raum sichtbar**: Sensoren einem Bereich zuweisen, siehe oben; Reparaturen prüfen.
+- **Fehler melden**: [Issue öffnen](https://github.com/DanStasiak/luftwaechter-ha/issues/new/choose); die Diagnosedaten der Integration helfen dabei.
+
+## Datenschutz
+Alles läuft in deinem Home Assistant. Keine Konten, keine Cloud-Dienste, keine Telemetrie.
+
+MIT © 2026 Dan Stasiak

diff --git a/CHANGELOG.md b/CHANGELOG.md
@@ -1,5 +1,14 @@
 # Changelog
 
+## 0.9.0
+- Pin favourite rooms: a ☆ button in the room view (key `P`) keeps a room on top in every sort order, remembered per browser.
+- New sort order "Highest CO₂ first"; the sort button now cycles worst first, name, highest CO₂.
+- Home Assistant **Repairs** hint when no room has been found for about 5 minutes, with the steps to fix it; it clears itself once a room appears.
+- German README (`README.de.md`) with install, settings, entities and troubleshooting.
+- README: new "Windows widget" section that explains which of the two to use, and links both ways.
+- Tests: 30 (repair issue, sorting, pinning).
+- DE: Räume anheften (☆, Taste `P`), neue Sortierung "Höchstes CO₂ zuerst", Reparaturen-Hinweis wenn kein Raum gefunden wird, deutsche README, Abschnitt zum Windows-Widget.
+
 ## 0.8.0
 - Header decluttered: sorting, filters, list view, rotate, full screen, text size and more now live in a labelled **More** menu (key `M`), with check marks for what is on.
 - Tiles show a small sparkline of the last hour, and the tooltip on the level badge tells how long the room has been at that level. The room view shows it too ("Poor for 1 h 35 min"). New room attribute `since` (minutes).
